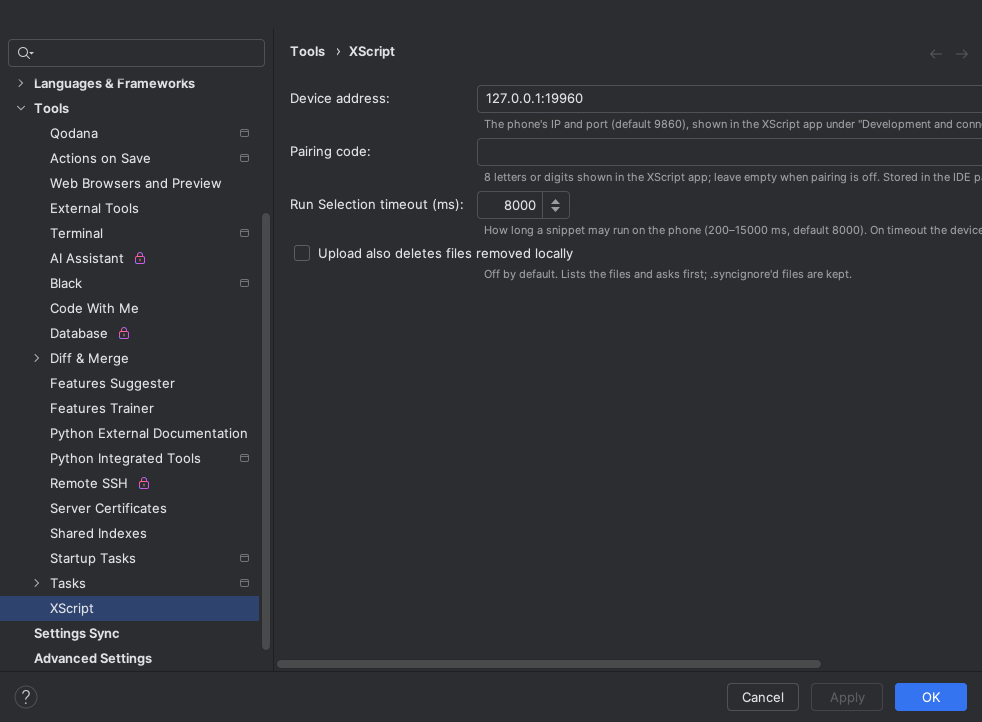
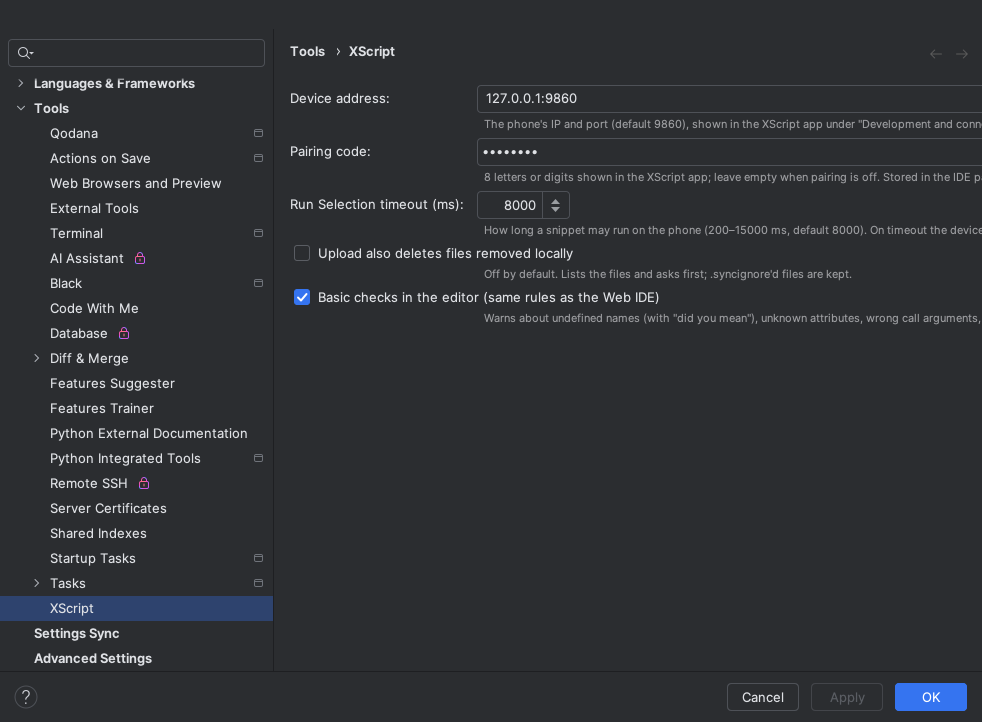
docs(pycharm): document basic checks with screenshots

diff --git a/ide/pycharm-plugin/src/main/kotlin/com/xscript/pycharm/ScreenshotDemoActivity.kt b/ide/pycharm-plugin/src/main/kotlin/com/xscript/pycharm/ScreenshotDemoActivity.kt
@@ -19,7 +19,7 @@ import java.util.concurrent.TimeUnit
  * never in a normal IDE) it opens the first XScript project's __init__.py and runs Upload and Run (`run`), or opens
  * Settings | Tools | XScript (`settings`), selects the first `_result` line and runs Run Selection on Device (`eval`), or starts
  * Pull Project from Device (`pull`), or runs a device project and opens the Device Projects tab (`projects`), or opens Connect to Device and checks
- * -Dxscript.screenshotConnect (`connect`, `capture`), so screenshots need no scripted mouse clicks. Does nothing otherwise.
+ * -Dxscript.screenshotConnect (`connect`, `capture`), or just opens __init__.py with the basic checks' warnings (`lint`), so screenshots need no scripted mouse clicks. Does nothing otherwise.
  */
 class ScreenshotDemoActivity : ProjectActivity {
     override suspend fun execute(project: Project) {
@@ -95,6 +95,7 @@ class ScreenshotDemoActivity : ProjectActivity {
                         }, 3, TimeUnit.SECONDS)
                     }
                 }
+                if (mode == "lint") ToolWindowManager.getInstance(project).getToolWindow("Problems View")?.show()
                 if (mode == "run" || mode == "eval") ToolWindowManager.getInstance(project).getToolWindow(XScriptService.TOOL_WINDOW_ID)?.show()
             }, project.disposed)
         }, 12, TimeUnit.SECONDS)
@@ -148,6 +149,6 @@ class ScreenshotDemoActivity : ProjectActivity {
 
     companion object {
         fun mode(): String? = System.getProperty("xscript.screenshotDemo")?.takeIf { it in MODES }
-        private val MODES = setOf("run", "settings", "eval", "pull", "projects", "connect", "capture")
+        private val MODES = setOf("run", "settings", "eval", "pull", "projects", "connect", "capture", "lint")
     }
 }

diff --git a/docs/功能对照.md b/docs/功能对照.md
@@ -30,7 +30,7 @@ AScript 兼容层在 `android/python-runtime/ascript/`，XScript 自有 API 在 
 | 类别 | ✅ 已有 | 🟡 部分 | ⛔ 空壳 | ❌ 没有 |
 | --- | --- | --- | --- | --- |
 | 脚本 API（动作、节点、图色、界面、系统） | 大部分、短信、传感器、AI 智能体 | HID | — | — |
-| 开发工具 | VS Code、AI 编程（MCP）、图色、标注、投屏 | 网页 IDE（补全、语法检查、基本检查、跳转到定义、查找引用、重命名、悬停类型）、UI 设计器（VS Code 扩展、网页 IDE 和桌面端）、PyCharm 插件（无断点调试） | — | |
+| 开发工具 | VS Code、AI 编程（MCP）、图色、标注、投屏 | 网页 IDE（补全、语法检查、基本检查、跳转到定义、查找引用、重命名、悬停类型）、UI 设计器（VS Code 扩展、网页 IDE 和桌面端）、PyCharm 插件（基本检查，无断点调试） | — | |
 | 云服务 / 后台 | 云控、卡密、打包、热更新、代码保护、分发 | — | — | YOLO 云训练、插件市场 |
 
 ---
@@ -145,7 +145,7 @@ AScript 兼容层在 `android/python-runtime/ascript/`，XScript 自有 API 在 
 | 投屏 | `share/scrcpy` | ✅ 已有 | 网页投屏；也可以用 scrcpy | |
 | 手机端代码编辑 | App 内 | ✅ 已有 | 简单编辑器 | |
 | **网页 IDE**（浏览器里写代码、运行，免装环境） | `devtools/webide` | 🟡 部分 | 本地文本编辑、保存运行、日志与基本 DAP 断点/单步/栈/变量已实现并在模拟器验证；新建工程（可选模板：空工程 / Hello / AScript 兼容 / 签到 / 找图点击 / OCR 读数 / 悬浮窗 UI，与手机 App、VS Code 扩展同一套）、新建文件（含子目录）/文件夹、删除文件（确认、入口保护、重名/越界校验）已实现；重命名/移动文件和文件夹（F2、右键菜单、拖拽，标签页/断点跟随；接口 `POST /projects/{name}/move`）已实现；目录树（折叠、键盘导航、展开状态保持）已实现；Python 语法高亮已实现（本地内置、离线可用）；多标签页关闭（×、中键、右键菜单、有未保存修改时确认）、工程内搜索/替换（大小写/全字/正则/文件过滤，替换前确认；一步撤销替换；正则防卡死；手机屏幕抽屉布局，模拟器自带 Chrome 实测；900–1180px 的桌面窗口工具栏和「文件」标题保持一行，有自动化测试）和手机截图面板（取坐标/颜色、插入坐标、保存到 `res/img`）已实现；API 补全（`xscript.*`/`ascript.*` 索引由运行时源码生成，含签名和说明，Ctrl+空格）、参数提示（Ctrl+Shift+空格）和悬停文档（签名与文档由 `ide/python-stubs` 生成）、本地语法检查（内置 Python 3.10 解析器，报错行与 CPython 一致，波浪线+问题数）、跳转到定义（F12 / Ctrl+点击，跨工程文件，库符号显示存根文档）、查找引用（Shift+F12）和重命名符号（F2，跨文件，确认后写入，可撤销）已实现，见[使用手册](使用手册.md)；悬停工程里的名字显示签名、文档字符串和推断类型（字面量、实例、返回注解、类型注解）；基本检查：未定义的名字、async / await 用错、同一代码块里重复定义的函数/类（Ctrl+. 跳到前一个定义）、xscript / ascript 及工程模块的 import 拼错（提示「是不是 …」，Ctrl+. 改正）、调用工程函数/类/方法时参数个数和关键字不对（关键字拼错时提示「是不是 …」，Ctrl+. 改正；缺少参数时 Ctrl+. 补上 `名字=...`）、字面量（或只赋值过一次字面量的变量）参数和简单类型注解不符（能确定时 Ctrl+. 转换，如 "2" → 2）、return 的值与简单返回注解不符、工程类及其实例上不存在的属性或方法（有拼写接近的名字时提示「是不是 …」，Ctrl+. 改正）；快速修复 Ctrl+. 为未定义的名字补上工程内的 import 或改成拼写接近的名字；未使用的 import 和局部变量、return / raise / continue / break 之后执行不到的代码变淡显示（Ctrl+. 删除执行不到的代码），Ctrl+. 删除未使用的 import 或局部变量的赋值（橙色波浪线，只报能确定的问题）；未实现 Monaco 级的完整类型检查 | |
-| PyCharm 插件 | `devtools/pycharm` | ✅ 已有 | `ide/pycharm-plugin`（PyCharm 2024.2+）：上传运行 / 停止、运行选中代码（`/eval`）、从设备拉取工程（只写入新增和不同的文件，覆盖前确认）、实时日志工具窗口、配对码、新建工程（同一套模板）、内置存根补全；版本号与 App 一致，安装包 `xscript-pycharm-<版本>.zip` 随 Release 附带；断点调试暂未做（PyCharm 调试器不是 DAP，见 [计划](plans/pycharm-plugin.md)）；不上架 Marketplace | |
+| PyCharm 插件 | `devtools/pycharm` | ✅ 已有 | `ide/pycharm-plugin`（PyCharm 2024.2+）：上传运行 / 停止、运行选中代码（`/eval`）、从设备拉取工程（只写入新增和不同的文件，覆盖前确认）、实时日志工具窗口、配对码、新建工程（同一套模板）、内置存根补全、基本检查（与网页 IDE 同一套规则，在 IDE 自带的 JCEF 里运行，以 `XScript:` 警告显示）；版本号与 App 一致，安装包 `xscript-pycharm-<版本>.zip` 随 Release 附带；断点调试暂未做（PyCharm 调试器不是 DAP，见 [计划](plans/pycharm-plugin.md)）；不上架 Marketplace | |
 | **UI 设计器**（拖拽生成脚本界面） | 官网「UI生成器」 | 🟡 部分 | VS Code 扩展、手机网页 IDE 和桌面端（工程页打开 `.ui.json`，设计 / JSON 两种视图，撤销 / 重做）共用同一个设计器（`*.ui.json`，8 种表单控件、拖拽排序、属性面板、预览），保存生成 `res/ui/<name>.html` 和 `ui_<name>.py`（`show()` 返回填写的值）；模拟器上用 `scripts/device_ui_designer_e2e.py` 验证：弹出界面、填写每种控件、提交 / 取消 / 预填（选项列表因悬浮窗里弹不出系统下拉框，改为页内列表）；2026-10-21 在 XS_Verify_API34 的 perf 应用（0.5.0）上重跑，15 项全部通过（桌面端用的是同一份生成器，测试保证逐字节一致） | |
 
 ---

diff --git a/ide/pycharm-plugin/README.md b/ide/pycharm-plugin/README.md
@@ -8,7 +8,9 @@
 
 ![运行后底部 XScript 工具窗口实时输出日志，右下角状态栏显示「XScript: Running daily_signin」](../../docs/images/pycharm-run.png)
 
-![Settings → Tools → XScript：设备地址、配对码、运行选中代码超时和「上传时同步删除」](../../docs/images/pycharm-settings.png)
+![Settings → Tools → XScript：设备地址、配对码、运行选中代码超时、「上传时同步删除」和「编辑器里的基本检查」](../../docs/images/pycharm-settings.png)
+
+![基本检查：问题面板里以 XScript: 开头的警告，在 async 函数里直接调用 async 函数、关键字参数 wiat（是不是 wait？）、拼错的 totl（是不是 total？）](../../docs/images/pycharm-checks.png)
 
 ![选中一行按 Ctrl+Alt+Shift+E：代码和设备返回的结果显示在 XScript 工具窗口](../../docs/images/pycharm-eval.png)
 
@@ -62,6 +64,7 @@ cd ide/pycharm-plugin
 - **预览上传**：Tools → XScript → Preview Upload (Dry Run)，不改动手机，只在 XScript 工具窗口里列出「上传并运行」会新增、重新发送、跳过和删除的文件。有需要上传或删除的内容时，右下角通知里有 **上传并运行** 按钮，直接执行同一次增量上传（删除仍会先弹确认框）。
 - **工程**：当前文件之上、含有 `__init__.py` 或 `build.as` 的最顶层文件夹；文件夹名就是手机上的工程名。上传时跳过隐藏文件、`__pycache__`、`.pyc`、虚拟环境，并遵守 `.vscode/.syncignore`（与 VS Code 扩展同一个文件）。设备上有、本地已删除的文件默认保留；在设置里勾选「上传时同步删除本地已删除的文件」后，每次上传会先列出这些文件，确认后才在设备上删除（被 `.syncignore` 忽略的文件、点开头的文件、`__pycache__` 和工程入口 `__init__.py` 永远不删；删除后变空的文件夹连同其中的 `__pycache__` 一起删除，也在同一个对话框里列出；同 VS Code 的 `xscript.syncDeletes`）。
 - **配对码**：手机默认需要配对码（XScript 首页「开发与连接 → 配对码」）。第一次遇到 401 时插件会弹窗询问，保存在 IDE 的密码库（macOS 钥匙串等），也可以在设置页填写。按设备地址分别保存。
+- **基本检查**：XScript 工程里的 `.py` 文件，用和网页 IDE、VS Code 扩展同一套规则检查（未定义的名字及「是不是 …」、属性不存在、调用参数不对、import 拼错、async / await 用错、重复定义），以 `XScript:` 开头的警告画在编辑器里并列在问题面板。PyCharm 自己已经会把未使用的 import / 变量和执行不到的代码变灰，这几类不重复报；有的问题（例如多余的参数）PyCharm 也会报一条，XScript 的那条多了「是不是 …」提示。规则在 IDE 自带的浏览器（JCEF）里运行，没有 JCEF 时（例如部分远程开发环境）不检查。不想要时在 **Settings → Tools → XScript** 取消「编辑器里的基本检查」。
 - **补全**：打开像 XScript 工程的项目时，插件会提示「启用 XScript 补全」。它只是把插件目录里的 `stubs/`（由 `scripts/gen_stubs.py` 生成，与 VS Code 扩展内置的是同一份）加为模块库，不往工程里复制任何文件；关闭时移除这个库。
 
 ## 开发
@@ -74,5 +77,5 @@ cd ide/pycharm-plugin
 ```
 
 - 新建工程模板 `src/main/resources/templates.json` 是生成的：改 `ide/vscode-extension/src/newProject.ts` 后，在 `ide/vscode-extension` 里 `npm run compile && node scripts/export-templates.js`。CI 用 `--check` 检查。
-- 截图：先在 `.intellijPlatform/sandbox/xscript-pycharm/PC-2024.2.6/config_runIde/options/xscript.xml` 里把设备地址设为本机 mock 设备，再 `./gradlew runIde -PrunIdeProject=<演示工程> -PrunIdeHeadlessConsent -PrunIdeScreenshotDemo=run -PrunIdeScreenshotOut=<目录>`（模式还有 `settings`、`eval`、`pull`、`projects`、`connect`；`connect` 用 `-PrunIdeScreenshotConnect=<地址>` 指定要检查的地址）。这些开关只用于这个一次性的沙盒：跳过用户协议，打开演示工程，执行对应功能（`pull` 会自动按下选择和覆盖对话框的默认按钮；演示工程里要有与设备工程同名的文件夹），约 25 秒后把 IDE 窗口（有对话框时截对话框）存成 `<目录>/<模式>.png`，不需要系统录屏权限。
+- 截图：先在 `.intellijPlatform/sandbox/xscript-pycharm/PC-2024.2.6/config_runIde/options/xscript.xml` 里把设备地址设为本机 mock 设备，再 `./gradlew runIde -PrunIdeProject=<演示工程> -PrunIdeHeadlessConsent -PrunIdeScreenshotDemo=run -PrunIdeScreenshotOut=<目录>`（模式还有 `settings`、`eval`、`pull`、`projects`、`connect`、`lint`（只打开 `__init__.py` 和问题面板，看基本检查；演示工程里要有写错的代码）；`connect` 用 `-PrunIdeScreenshotConnect=<地址>` 指定要检查的地址）。这些开关只用于这个一次性的沙盒：跳过用户协议，打开演示工程，执行对应功能（`pull` 会自动按下选择和覆盖对话框的默认按钮；演示工程里要有与设备工程同名的文件夹），约 25 秒后把 IDE 窗口（有对话框时截对话框）存成 `<目录>/<模式>.png`，不需要系统录屏权限。
 - 本机没有系统 JDK 时可以用 Android Studio 自带的：`JAVA_HOME="/Applications/Android Studio.app/Contents/jbr/Contents/Home"`。

diff --git a/ide/pycharm-plugin/README.en.md b/ide/pycharm-plugin/README.en.md
@@ -6,7 +6,9 @@ It talks to the device HTTP API (`protocol/openapi.yaml`, default port 9860). On
 
 ![After a run the XScript tool window at the bottom shows the log live; the status bar shows "XScript: Running daily_signin"](../../docs/images/pycharm-run.png)
 
-![Settings → Tools → XScript: device address, pairing code and Run Selection timeout](../../docs/images/pycharm-settings.png)
+![Settings → Tools → XScript: device address, pairing code, Run Selection timeout, upload deletes and basic checks](../../docs/images/pycharm-settings.png)
+
+![Basic checks: warnings starting with XScript: in the Problems view: an async function called without await, the keyword wiat (did you mean wait?) and the misspelled totl (did you mean total?)](../../docs/images/pycharm-checks.png)
 
 ![Select a line and press Ctrl+Alt+Shift+E: the code and the device's answer appear in the XScript tool window](../../docs/images/pycharm-eval.png)
 
@@ -48,6 +50,7 @@ The **status bar** (bottom right) shows the phone: "XScript: Connected", "Runnin
 
 - **Project**: the topmost folder above the current file with `__init__.py` or `build.as`; its name is the project name on the phone. Uploads skip hidden files, `__pycache__`, `.pyc` and virtual environments, and honour `.vscode/.syncignore` (the same file the VS Code extension uses).
 - **Pairing code**: the phone asks for one by default (XScript home → Development and connection → Pairing code). On the first 401 the plugin asks for it and keeps it in the IDE password safe (the macOS keychain etc.), per device address. You can also enter it in Settings.
+- **Basic checks**: `.py` files of an XScript project are checked with the same rules as the Web IDE and the VS Code extension (undefined names with "did you mean", unknown attributes, wrong call arguments, import typos, async / await misuse, duplicate definitions); warnings start with `XScript:` and show in the editor and the Problems view. PyCharm already greys out unused imports / variables and unreachable code, so those are not repeated; some problems (an extra argument, say) are also reported by PyCharm, and the XScript one adds the "did you mean" hint. The rules run in the IDE's built-in browser (JCEF); without JCEF (some remote setups) nothing is checked. Turn it off under **Settings → Tools → XScript → Basic checks in the editor**. The messages are in Chinese, as in the Web IDE.
 - **Completion**: when you open a project that looks like an XScript project, the plugin offers to enable completion. That only adds the plugin's own `stubs/` folder (generated by `scripts/gen_stubs.py`, the same files the VS Code extension bundles) as a module library; nothing is copied into your project, and disabling removes the library.
 
 ## Develop

diff --git a/docs/截图.md b/docs/截图.md
@@ -24,6 +24,7 @@
 | 桌面端截图状态卡片（`desktop-capture-lost-{light,dark}.png`） | 模拟器冷启动（系统录屏授权失效），关闭无障碍，打开 XScript，然后 `PYTHON_KEYRING_BACKEND=keyring.backends.null.Keyring python -m xscript_desktop --data-dir <临时目录> --adb <adb> --connect-adb <serial> --screenshot out.png --run-js tools/screenshot-capture-status.js --screenshot-delay 8 --theme light --size 1180x760`，深色把 `light` 换成 `dark`；空钥匙串后端保证不把配对码写进系统钥匙串 |
 | PyCharm 连接检查（`pycharm-connect-check.png`） | 模拟器上打开 XScript 并 `adb forward tcp:9860 tcp:9860`，然后在 `ide/pycharm-plugin` 里 `./gradlew runIde -PrunIdeProject=<演示工程> -PrunIdeHeadlessConsent -PrunIdeScreenshotDemo=connect -PrunIdeScreenshotConnect=127.0.0.1:9860 -PrunIdeScreenshotOut=<目录>`，约 30 秒后得到 `<目录>/connect.png`（对话框）；只读取设备状态，不保存地址 |
 | PyCharm 截图权限失效（`pycharm-capture-lost.png`） | 模拟器上关闭无障碍，强制停止并重新打开 XScript，`adb forward tcp:9860 tcp:9860`，然后 `XS_SHOT_CODE=<配对码> ./gradlew runIde -PrunIdeProject=<演示工程> -PrunIdeHeadlessConsent -PrunIdeScreenshotDemo=capture -PrunIdeScreenshotConnect=127.0.0.1:9860 -PrunIdeScreenshotOut=<目录>`，约 25 秒后得到 `<目录>/capture.png`；沙箱 IDE 的密码库切到仅内存，配对码不进系统钥匙串 |
+| PyCharm 基本检查（`pycharm-checks.png`） | 在 `ide/pycharm-plugin` 里 `./gradlew runIde -PrunIdeProject=<演示工程> -PrunIdeHeadlessConsent -PrunIdeScreenshotDemo=lint -PrunIdeScreenshotOut=<目录>`，演示工程 `__init__.py` 里有未 await 的 async 调用、拼错的关键字参数和名字；不需要设备。截好后裁掉底部的 IDE 通知 |
 | PyCharm 插件其余截图、网页 IDE、管理后台（`pycharm-*`、`ide-*`、`admin-*`） | 目前手动截图：演示工程 / 演示数据，窗口宽度和现有截图保持一致 |
 
 ### 用 `--run-js` 自动走到要截的页面
